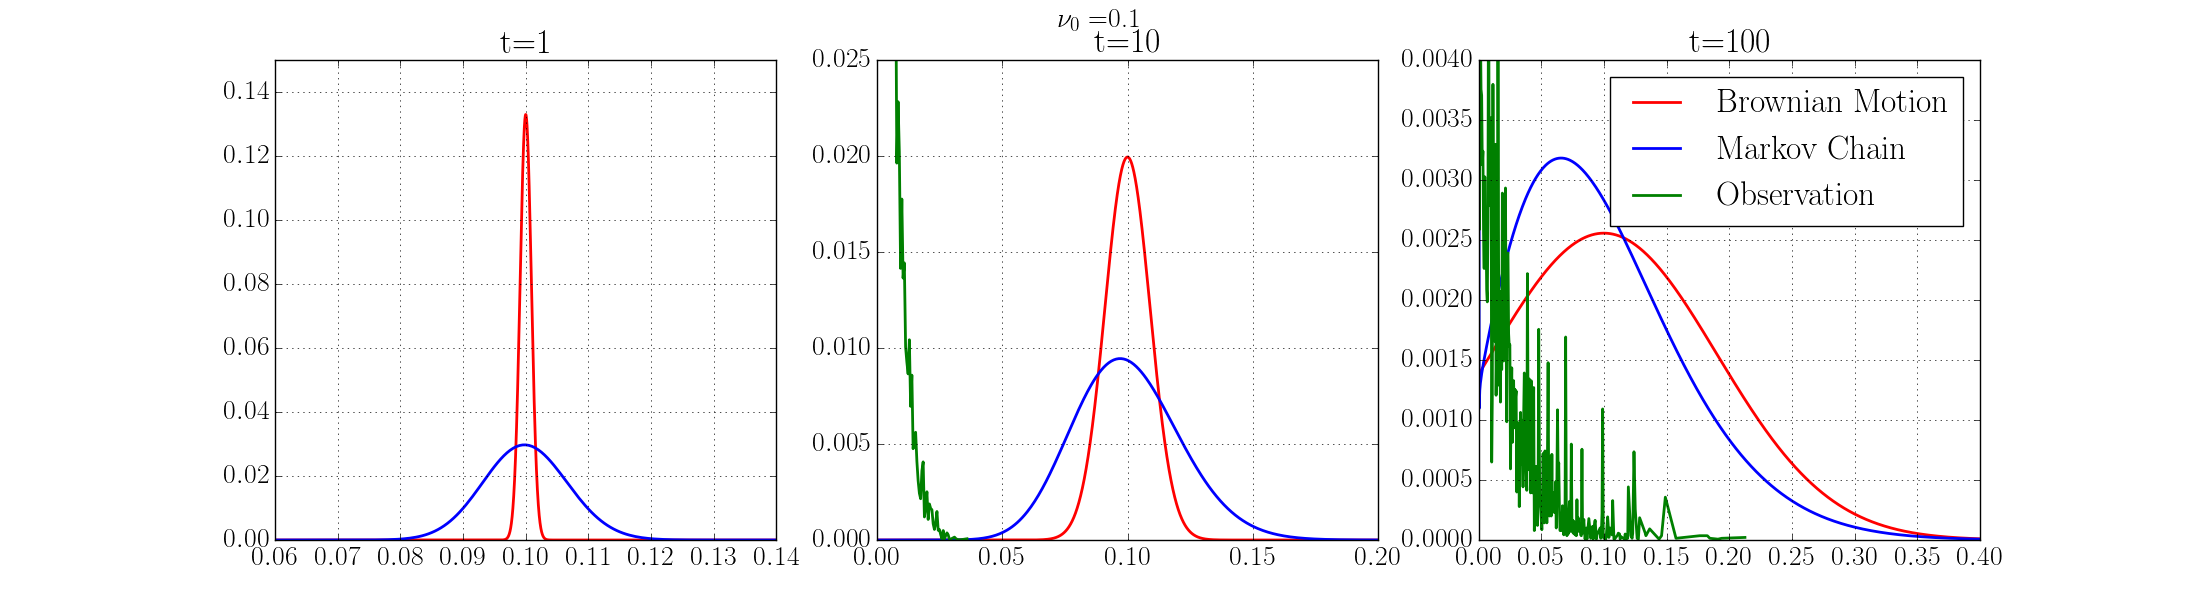
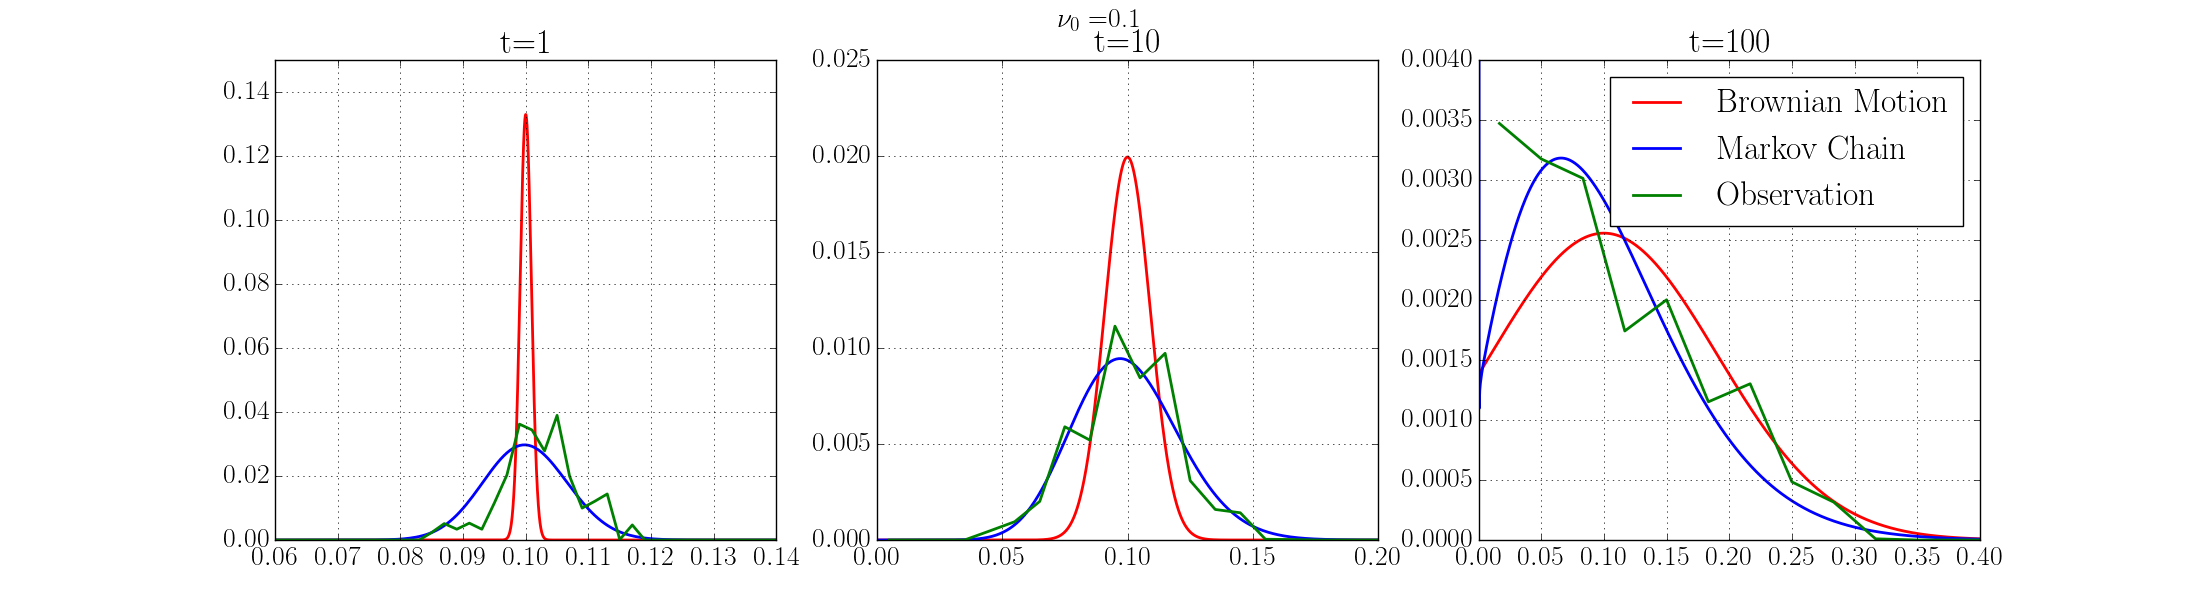
sfs

diff --git a/main.tex b/main.tex
@@ -29,7 +29,7 @@ over conventional method both in hard and soft sweeps.
 
 \section{Introduction}
 Genetic adaptation is \emph{the} central evolutionary process and is at the
- core of some of the greatest challenges facing humanity.  HIVwould likely
+ core of some of the greatest challenges facing humanity.  HIV would likely
   cause nothing more than harmless fever without the
 ability of the virus to adapt and eventually destroy the immune system. 
 Cancer would be much more straightforward to treat if not for
@@ -69,10 +69,10 @@ SFSelect~\cite{ronen2013learning} compute test statistic as "\emph{a}"
 	   weights. As with Bayesian inference, using a \emph{not-reasonable prior}
 	    distribution would lead to poor results.} 
 	convex 
-combination of Allele Frequency Spectrum(AFS)~\cite{achaz2009frequency} 
+combination of Site Frequency Spectrum(SFS)~\cite{achaz2009frequency} 
 (Figure \ref{fig:afs}. 
 However, despite their simplicity and intuitiveness, it has been shown that
- ~\cite{ptak2002evidence, ramos2002statistical} AFS-based tests often fail 
+ ~\cite{ptak2002evidence, ramos2002statistical} SFS-based tests often fail 
  to discriminate between positive selection and a dynamic
 demographic processes. Also, more recently, Frequency Increment
  Test(FIT) \cite{feder2014Identifying} is  proposed to test whether a
@@ -80,7 +80,7 @@ demographic processes. Also, more recently, Frequency Increment
 \begin{figure}
 	\centering
 	\includegraphics[scale=0.2]{afs}
-	\caption{AFS}	\label{fig:afs}
+	\caption{SFS}	\label{fig:afs}
 \end{figure}
 \paragraph{Experimental Evolution}
 Recent advances of whole genome sequencing has enabled us to sequence 
@@ -134,7 +134,7 @@ Linked-loci time-series (spatio-temporal) methods
  which makes it cumbersome. Theoretical diffusion approximation method has also 
  developed for neutral allele frequencies~\cite{Ewens2012Mathematical, 
  kimura1955solution}
-neutral AFS~\cite{evans2007non}, neutral allele
+neutral SFS~\cite{evans2007non}, neutral allele
  frequencies~\cite{song2012simple}.
 
 Experimental evolution (including evolve and re-sequence paradigms)
@@ -237,7 +237,7 @@ consequences~\cite{schrider2015soft} [[explain more]].
 
 \subsection{Dynamics of the Sweep}
 Selective sweep is a complex random process which under infinite site assumption
-only depends on a set of parameters including selection strength and 
+only depends on selection strength,
 population size and the underlying genealogy at the onset of selection. 
 As a result, the change in different population statistics, including 
 \emph{site 
@@ -254,8 +254,8 @@ those of neutral evolution and demography.
  In the following, we examine the dynamics of AF, SFS and LD in experimental 
  evolution in detail and evaluate their power in identification of selection 
  events. 
- The "identification" of a selection event can be done in a different levels of 
- details. The very first question is to ask whether a region (e.g. a window of 
+ The "identification" of a selection event can be done in different levels of 
+ detail. The very first question is to ask whether a region (e.g. a window of 
  50Kbp) on genome is under selection, which basically can be used to locate the 
  regions (e.g. genes) on a long genome. In the rest, we consider this task to 
  be the task of \emph{detection}.
@@ -266,7 +266,7 @@ those of neutral evolution and demography.
  overdominance at the site fully describes the selective sweep.
  
  In the following we only consider positive selection as an selection event and 
- selection pressure is only subjected to merely one segregating site.
+ selection pressure is subjected to only one segregating site.
 
 \begin{figure}[t]
 	\begin{tabular}{lr}
@@ -287,7 +287,8 @@ those of neutral evolution and demography.
 Selection and genetic drift are the two main \emph{independent} evolutionary 
 forces that cause change in allele frequencies, each generation. 
 In the simplest case, models for neutral evolution of a single-locus can be 
-used to derive a null distribution in order to detect a region or locate the 
+used to derive a null distribution in order to detect the region under 
+selection or locate the 
 adaptive allele.
 For example, Feder et al. 
 \cite{feder2014Identifying} proposed a (continues-time continues-state) 
@@ -303,15 +304,21 @@ Using \eqref{eq:brown}, Frequency Increment Test (FIT)
 \cite{feder2014Identifying} computes p-value of 
 time-series data by a Student's t-test. However, Brownian motion is a poor 
 approximation of the actual genetic drift process when 1) $\nu_t$ is not close 
-to $0.5$, 2) when $\tau$ is large.
+to $0.5$, 2) when $\tau$ is large. A the start of selection site frequencies 
+are distributed according to SFS of a neutral population, and thus most of the 
+sites are at low frequencies. Thus if the selecting site is chosen randomly 
+with high probability its frequency will be far 0.5. Moreover, in many 
+experimental evolution experiments STS $\tau$ is chosen be large, e.g. 10+ to 
+100+ generations.
 
-Instead, we can compute distributions of allele frequencies by using a 
+
+Instead, probabilities of trajectories can be computed using a 
 (discrete-time discrete-state-space) Markov Chain with transition matrix $P$
 \beq
 P_{i,j}=\pr\left(\nu_{t+1}=\frac{j}{2N} \left| 
 \nu_{t}=\frac{i}{2N}\right)={2N 
 	\choose j} \right. 
-\nu_{t}^j (1-\nu_{t})^{2N-j} 
+\nu_{t}^j (1-\nu_{t})^{2N-j}  
 \eeq
 which transition probabilities for $\tau$ generations ahead can be computed by 
 powering the transition matrix to $\tau$.
@@ -319,7 +326,7 @@ powering the transition matrix to $\tau$.
 On the other hand, alternative models for single-locus selection can be 
 utilized to estimate strength of selection and robustly detect and locate 
 selection by 
-combining two hypothesis and perform likelihood ration test.
+combining two hypothesis and perform likelihood ration tests.
 In a pure selection process with no drift, i.e. infinite population size, 
 dynamic of allele frequencies 
 can be well approximated by the logistic function (see Appendix \ref{app:af} 
@@ -332,7 +339,7 @@ where $\sigma(x)=1/(1+e^{-x})$ is the logistic function, and
 $\eta(x)=\log(x)/\log(1-x)$ is inverse of the 
 logistic, aka logit, function. Figure \ref{fig:sweep} depicts the behavior of 
 the logistic model for site allele frequencies and the default sampling time 
-span(STS). Under pure selection regime, soft sweeps are easier to detect, 
+span(STS). Without genetic drift, soft sweeps are easier to detect, 
 because the logistic function happens to have steeper slope in th STS than 
 those of hard sweeps. In addition, even in infinite population size, it is 
 difficult differentiate between weak selections and genetic drift (a horizontal 
@@ -351,62 +358,97 @@ Q_{i,j}(s)&=\pr\left(\nu_{t+1}=\frac{j}{2N} \left|
 \nu_{t}=\frac{i}{2N}\right)={2N 
 	\choose j} \right. 
 \hat{\nu}_{t+1}^{j} (1-\hat{\nu}_{t+1})^{2N-j},\\
-\hat{\nu}_{t+1}&=\sigma(\hat{s}+\eta(\nu_t))
+\hat{\nu}_{t+1}&=\sigma(\hat{s}+\eta(\nu_t))\label{eq:markovs}
 \eeq
-computes probabilities of time-series under the alternative model. The 
-likelihood ratio test is then provides a calibrated predictor which is more 
-robust to pathological false-positives \cite{feder2014Identifying}.
+computes probabilities of time-series under the alternative model. 
+
+Likelihood of the trajectories under null and alternative hypothesis can be 
+computed to perform likelihood ratio tests which provide predictors that are 
+robust to pathological false-positives \cite{feder2014Identifying}. 
+Specifically, for each site, we define the likelihood-ratio predictor
+\beq \label{eq:lrt}
+\Lambda(\hat{s}) = \hat{s}\log 
+\left(\frac{\Lc(\bfx|s=\hat{s})}{\Lc(\bfx|s=0)}\right)
+\eeq
+where $\bfx$ is the vector of trajectories and $\Lc$ is the likelihood function 
+defined by the Markov chain with transition \eqref{eq:markovs}.
+\begin{figure}[t]
+		\centering
+		\includegraphics[trim={0in 0.1in 0in 
+			0in},clip,width=\textwidth]{{markov0.005}.png}\\
+		\includegraphics[trim={0in 0.1in 0in 
+			0in},clip,width=\textwidth]{{markov0.1}.png}
+	\caption{Predicted distributions of allele frequencies of sites with 
+	initial frequency $\nu_0=0.005$ (top) and $\nu_0=0.1$ (bottom), after 
+	$t=\{1,10,100\}$ generations, under neutral evolution, by Brownian mothion 
+	and Markov chain. Observed distribution of 143900 sites with $\nu_0=0.005$ 
+	and 47500 with variants $\nu_0=0.1$ computed from neutrally evolving 
+	simulations is depicted in green lines.} 	 
+	\label{fig:markov}
+\end{figure}
 
 
+\begin{figure}[t]
+	\centering
+	\includegraphics[trim={0in 0.1in 0in 
+		0in},clip,width=\textwidth]{{markov.s0.1}.png}
+	\caption{Predicted distributions of allele frequencies of sites with 
+		initial frequency $\nu_0=0.005$ and selection strength $s=0.1$, after 
+		$t=\{1,10,100\}$ generations,by Markov chain. 
+		Observed distribution of the adaptive allele (with$\nu_0=0.005$) in 
+		10000 simulation is shown in green.} 	 
+	\label{fig:markovs}
+\end{figure}
+\paragraph{Site Frequency Spectrum} SFS (Figure \ref{fig:afs}) is the 
+distribution of allele 
+frequencies in a genomic region.
+Historically, SFS of static data has been extensively used to "detect" genetic 
+adaption and demographic changes in a population. Basically, SFS is a measure 
+of diversity in a genomic region and reduction of diversity is a signal of 
+selection. Detecting selection based on the reduction in genomic diversity is a 
+subtle 
+task, because 
+\begin{enumerate}[(i)]
+	\item  in soft sweeps the genomic diversity is not is not necessarily 
+	reduced.
+	\item even in hard sweeps with no recombination, the reduction diversity is 
+	significant only when the SFS sample is taken close to fixation (not too 
+	far prior or after fixation)
+	\item SFS change in the same way for both selection an 
+	demography changes. 
+\end{enumerate}
 
-\paragraph{Allele Frequency Spectrum} AFS is the distribution of allele 
-frequencies in a fixed window, which depends on allele frequencies of all sites.
-Historically, AFS of static data has been extensively used to examine genetic 
-adaption and demographic changes in a population. However, their predictive 
-performance in the dynamic data yet to be known. In the following, we first 
-evaluate strength and weakness of AFS in detecting selection in static data, 
-then study the potential power of AFS in detecting selection.
+Although conditions (hard sweep with no recombination, not far from 
+fixation, and random-mating and constant size population ) for detecting 
+selection based on SFS are very restrictive, SFS-based tests are simple and 
+inexpensive to use and often used in combination with 
+other tests~\cite{}. 
 
-Given a single observation, AFS of a hard and (moderately) soft sweeps can be 
-distinguished from those of neutral evolution. In fact, the predictive 
-performance of AFS tightly depend on the strength of LD of the site under 
-selection with the rest of sites in the examining window. This implies that AFS 
-is not a proper statistic when 1)recombination rate is high (e.g., hot spots) 
-or 2)the initial LD is low\cite{} (very soft sweeps i.e, initial carrier 
-frequency is 
-high) 3)the 
-selecting allele is peculiarly old (e.g. balancing selection\cite{} or 
-multi-locus 
-selection\cite{}). Also, AFS based statistics can detect selection  effectively 
-only when the AFS sample is taken close to fixation (not too far prior or after 
-fixation)\cite{}. 
-Finally, AFS-based statistics change in the same way for both selection  an 
-demography. Thus in order to use them for detecting selection, we are assuming 
-that population is panmictic and constant size~\cite{}.
+In practice, SFS distribution is \emph{sclarized} by a weighted 
+linear combination\cite{achaz2009frequency}. More precisely, the weights should 
+be positive and sum to 
+one, which makes it a convex combination, aka discrete expectation. For 
+example, 
+test statistics for Tajima's $D$\cite{tajima1989statistical}, Fay Wu's 
+$H$\cite{fay2000hitchhiking} and 
+SFSelect\cite{ronen2013learning} can be obtained by a dot product of SFS vector 
+with their weight vector.
 
-Although aforementioned assumptions (high linkage in window, not far from 
-fixation, and random-mating and constant size population ) seems to be very 
-restrictive, they are easy and inexpensive to use and used in combination with 
-other tests. In practice, AFS distribution is \emph{sclarized} by a weighted 
-linear combination. More precisely,  the weights should be positive and sum to 
-one, which makes it a convex combination or discrete expectation. For example, 
-test statistics for Tajima's $D$\cite{}, Fay Wu's $H$\cite{} and 
-SFSelect\cite{} can be obtained by a dot product of AFS vector with their 
-weight vector \cite{achaz2009frequency}.
+Whether the dynamic of SFS in times-series can improve the detection power in 
+the conditions (i-iii) is not well-studied yet. Evans et al. 
+\cite{evans2007non} developed diffusion equations for 
+evolution of SFS in time series, they are difficult to solve. On the other 
+hand, scalar test statistics such as $D$, $H$ and SFSelect are easier to 
+analyze and visualize.
 
-In time-series data, trajectory of AFS encodes a profile of selective sweep 
-which its dynamic could be used to describe selection. In the simplest case, we 
-can design a statistical test under which AFS remains constant in neutral 
-evolution (null distribution) and compute the p-values for a given observation. 
-On the other hand, we can model the dynamics of AFS as a function of selection 
+In the simplest case, statistical test can be designed to test whether the 
+observations of $D$, $H$ and SFSelect statistics are significantly deviated 
+from null distribution, i.e. constant values in time.
+On the other hand, we can model the dynamics of SFS as a function of selection 
 strength to 1)have a model for estimating model parameter 2)acquire an 
-intuition how does AFS behave under different regimes of selection.
+intuition how does SFS statistics behave under different regimes of selection.
 
 
-While Evans et al. \cite{evans2007non} developed diffusion equations for 
-evolution of AFS in time series, they are difficult to solve. Hence, we develop 
-direct equations for 
-describing dynamics of the scalar test statistics.
 \begin{enumerate}[I.]
 	\item {\bf Tajima D} As shown in the Appendix \ref{app:td}, dynamic of 
 	Tajima's D in hard sweep is
@@ -414,29 +456,47 @@ describing dynamics of the scalar test statistics.
 	D_t=D_0-\log(1-\nu_t) \frac{W_0}{\log(2N)} -\nu_t^2 \Pi_0\label{eq:tdt}
 	\eeq
 
-	where $\nu_t$ defined in term of $\nu_0$ and $s$ in \eqref{eq:nut}, $W_0$ 
-	and $\Pi_0$ are Watterson and Tajima estimate of $\theta$ at the first 
-	generation. Given $W_0$, $\Pi_0$ and $\nu_t \in (0,1)$, $D_t$ 
-	\eqref{eq:tdt} is a one-to-one map of $\nu_t$, which exhibits the same 
-	trend as carrier frequency $\nu_t$, but potentially with higher variance.
+	where $W_0$ and $\Pi_0$ are Watterson and Tajima estimate of $\theta$ at 
+	the first generation.
+	Given that $\nu_t$ defined in term of $\nu_0$ and $s$ in \eqref{eq:nut}, we 
+	can use \eqref{eq:tdt} to detect the selection and estimate the strength of 
+	selection at the same time by performing a nonlinear regression to find 
+	$s$. A likelihood ratio, similar to \eqref{eq:lrt}, provides\footnote{The 
+	likelihood of the data to the model is the least-squares loss between model 
+	$D_t(\hat{(s)})$ and the observed $D$.} a predictor for detecting selection 
+	in each window
+	
+	However, given $W_0$, $\Pi_0$ and $\nu_t \in (0,1)$, $D_t$ 
+	\eqref{eq:tdt} is a map of $\nu_t$, which its variance is larger than that 
+	of $\nu_t$.
 	Figures \ref{fig:dynamic-weak} and \ref{fig:dynamic-strong} (last 
 	row, left), shows that the parametric model is reasonable, but observations 
 	of $D_t$ has higher variance than $\nu_t$ which makes it harder to 
 	distinguish between neutral and under sweep population. 
 	
-	In addition to their variance, the mean of the processes in both cases 
-	(even for strong selection)
-	seems to be entangled to each other in early generations  that could lead 
-	to high rates of false-positives (or false negatives). We conjecture that, 
-	this is because Tajima's D is a weighted average of AFS and this averaging 
-	cancels out small fluctuations of AFS in early generations.
-	
-	Finally, in derivation of \eqref{eq:tdt} it has been assumed that the 
+	In addition, in derivation of \eqref{eq:tdt} it has been assumed that the 
 	population undergoes a hard-sweep, and the model becomes invalid as the 
 	initial carrier frequency deviates from that of hard-sweep, Figure 
 	\ref{fig:dynamic-weak} and \ref{fig:dynamic-strong} (last 
 	row, right).
 	
+	Finally, in a infinite population size setting, differentiating the between 
+	selection and drift is difficult in early generations of hard sweep.
+	More precisely, w.l.o.g. when $D_0=0$ and $\Pi_0=W_0=1$, $D_t$ is sum of a 
+	logarithmic and a squared term, blue and green curves in Figure 
+	\ref{fig:tdterms}. As shown in the Figure \ref{fig:tdterms} right, in early 
+	generations of sweep where carrier frequency is low, $D_t$ is either 
+	positive or close zero. In other words, the reduction in diversity become 
+	significant when carrier frequency is high.
+	
+	
+	\begin{figure}[t]
+		\centering
+		\includegraphics[trim={0in 0.1in 0in 
+			0in},clip,width=\textwidth]{{tdterms}.png}
+		\caption{Interactions of two terms in $D$.} 	 
+		\label{fig:tdterms}
+	\end{figure}
 	\item {\bf Fay Wu's H} As shown in the Appendix \ref{app:h}, dynamic of Fay 
 	Wu's H in 	hard sweep is
 	\beq
